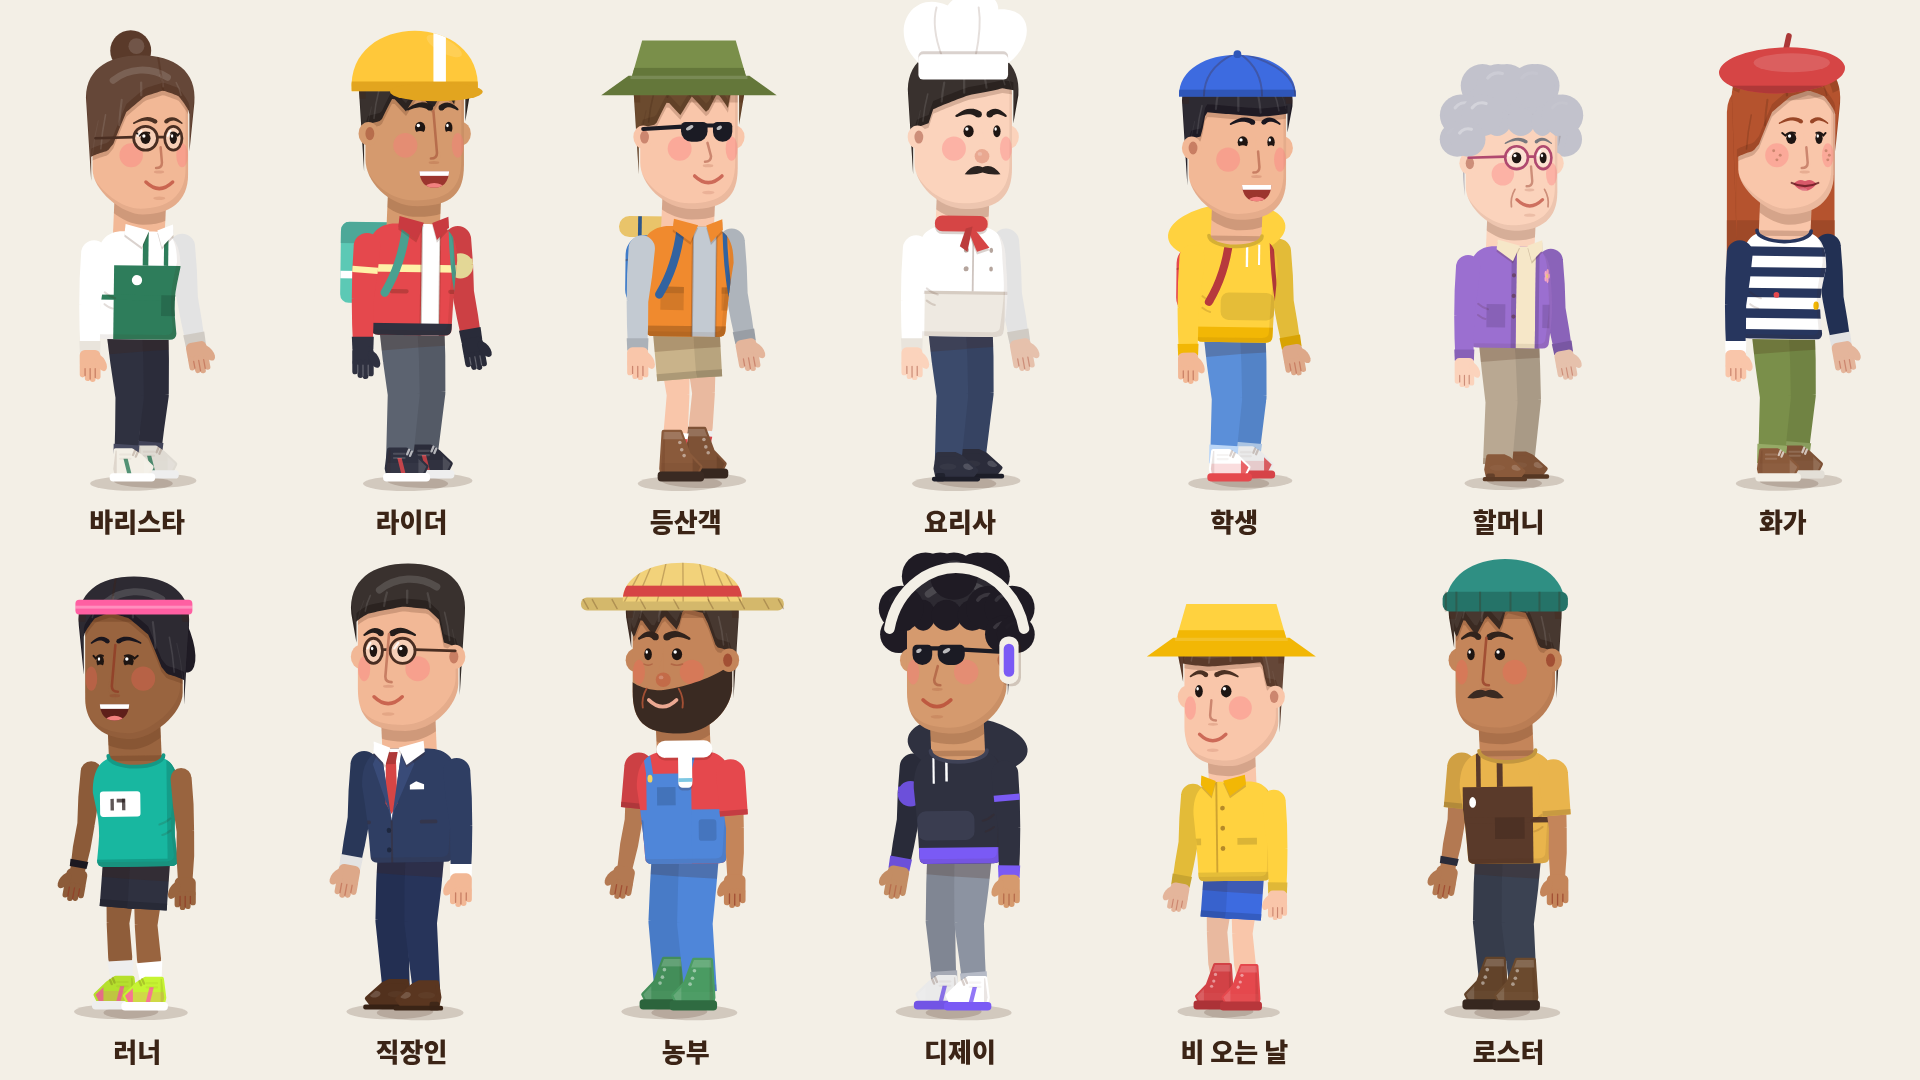
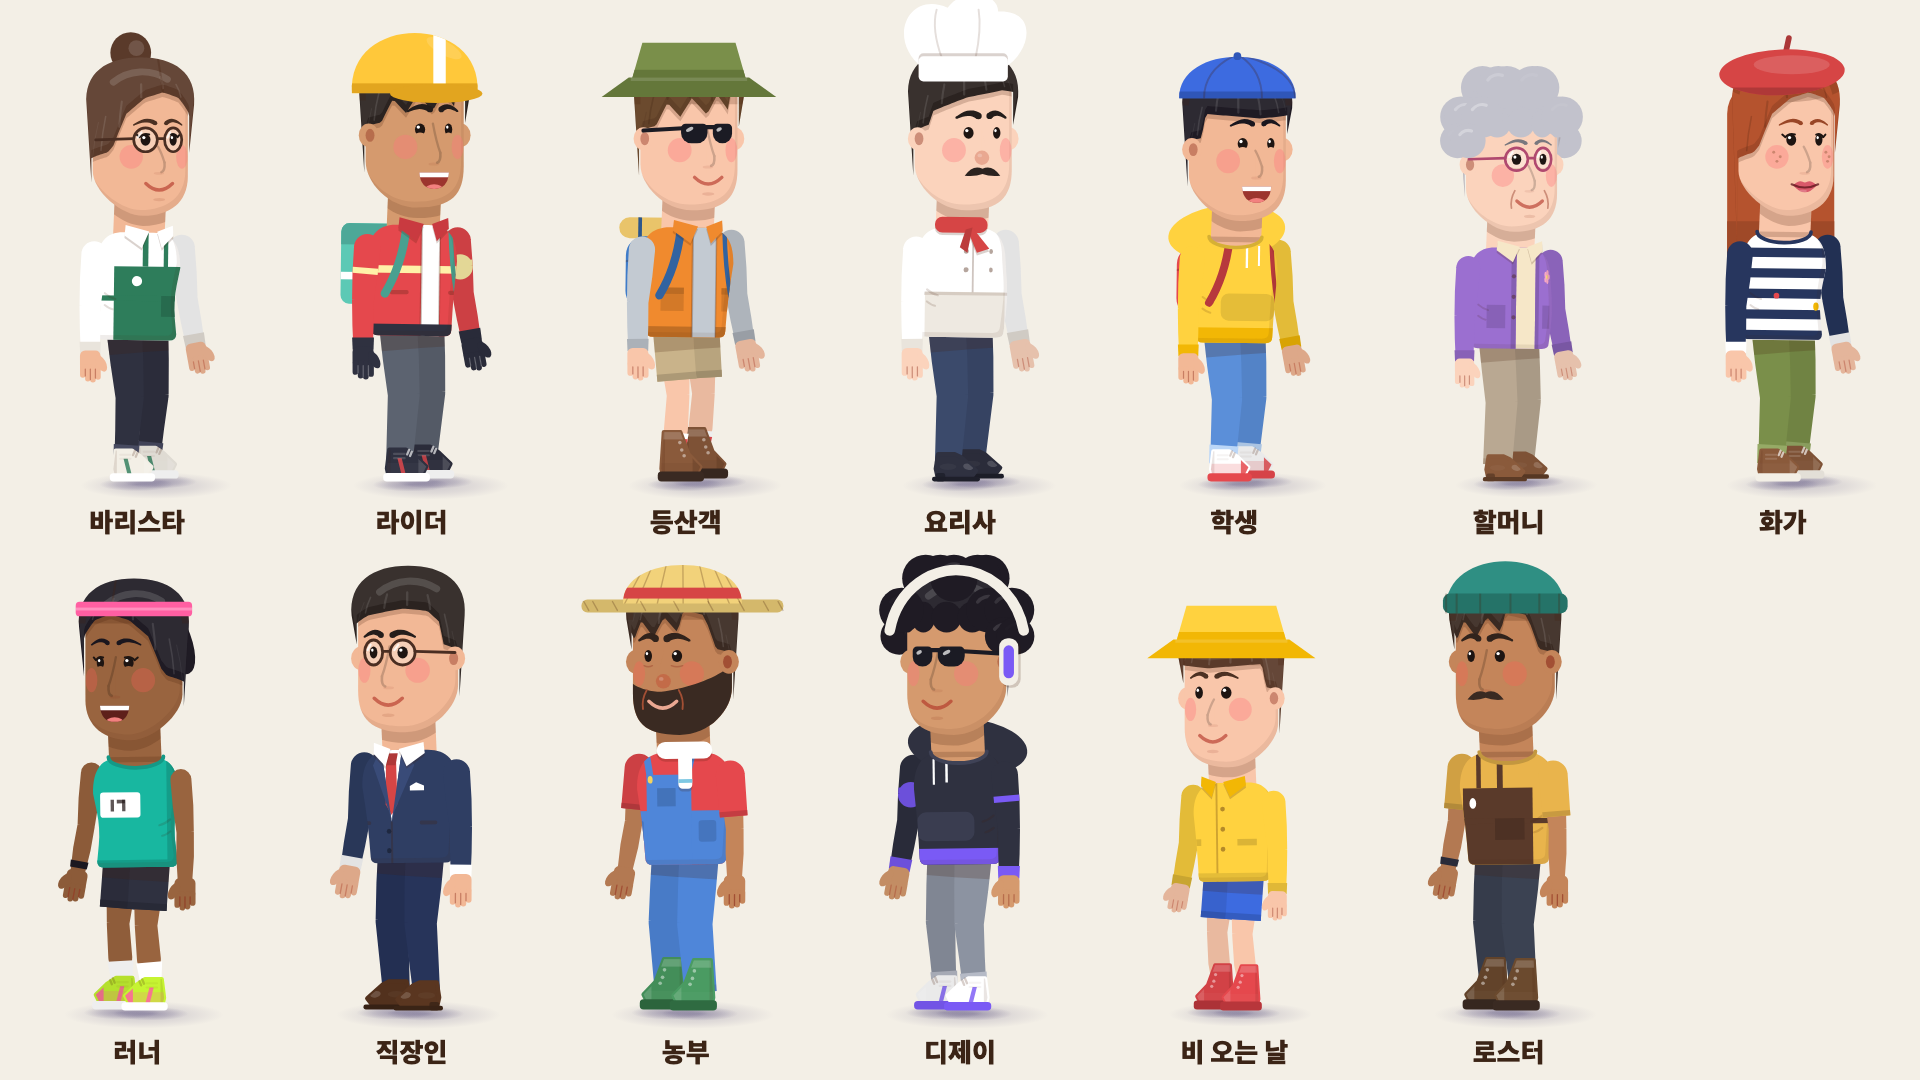
chore(rig-kit): regenerate the cast sheet with soft contact shadows
Cap the sheet scale so tall hats in short rows stay inside the frame.

diff --git a/adobe/cep/com.autokairos.pd/index.html b/adobe/cep/com.autokairos.pd/index.html
@@ -1042,17 +1042,17 @@
   <!-- `?v=` 는 캐시버스터다. CEP(Chromium)가 옛 JS 를 계속 물고 있어,
        고쳐도 패널에 반영되지 않는 일이 반복됐다 — 후보 띠를 넣고도
        안 보이던 것이 그 때문이었다. 커밋 수라 코드가 바뀌면 함께 바뀐다. -->
-  <script src="js/main.js?v=1485"></script>
-  <script src="js/nav.js?v=1485"></script>
-  <script src="js/planning.js?v=1485"></script>
+  <script src="js/main.js?v=1486"></script>
+  <script src="js/nav.js?v=1486"></script>
+  <script src="js/planning.js?v=1486"></script>
   <link rel="stylesheet" href="vendor/maplibre-gl.css">
   <script src="vendor/maplibre-gl.js"></script>
-  <script src="js/mapgen.js?v=1485"></script>
-  <script src="js/storyboard.js?v=1485"></script>
-  <script src="js/gallery.js?v=1485"></script>
-  <script src="js/genmodal.js?v=1485"></script>
-  <script src="js/assistant.js?v=1485"></script>
-  <script src="js/dogam.js?v=1485"></script>
+  <script src="js/mapgen.js?v=1486"></script>
+  <script src="js/storyboard.js?v=1486"></script>
+  <script src="js/gallery.js?v=1486"></script>
+  <script src="js/genmodal.js?v=1486"></script>
+  <script src="js/assistant.js?v=1486"></script>
+  <script src="js/dogam.js?v=1486"></script>
   <div id="pv-zoom"><div class="box"><button class="x" title="닫기">✕</button><div class="inner"></div><div class="cap"></div></div></div>
 </body>
 </html>

diff --git a/motion/rig-kit/tools/sheet.js b/motion/rig-kit/tools/sheet.js
@@ -6,7 +6,7 @@ const { open } = require('./pw');
   const { browser, page } = await open(file);
   await page.evaluate(() => { c.setTransform(1, 0, 0, 1, 0, 0); c.fillStyle = BG; c.fillRect(0, 0, W, H);
     const n = CAST.length, cols = Math.ceil(n / 2), cw = W / cols;
-    CAST.forEach((ch, i) => { const col = i % cols, row = (i / cols) | 0, x = cw * (col + 0.5), gy = row ? 1010 : 480, U = Math.min(112, cw / 2.6);
+    CAST.forEach((ch, i) => { const col = i % cols, row = (i / cols) | 0, x = cw * (col + 0.5), gy = row ? 1010 : 480, U = Math.min(105, cw / 2.6);
       actor(ch, { yaw: (row ? -25 : 25) * Math.PI / 180, walk: 0, seed: 0 }, 0.5, x, gy, U); c.font = `900 26px ${FONT}`; c.fillStyle = INK; c.textAlign = 'center'; c.textBaseline = 'middle'; c.fillText(ch.name, x, gy + 42); }); });
   await page.screenshot({ path: castOut });
   if (propsOut) { await page.evaluate(() => { c.setTransform(1, 0, 0, 1, 0, 0); c.fillStyle = BG; c.fillRect(0, 0, W, H);
